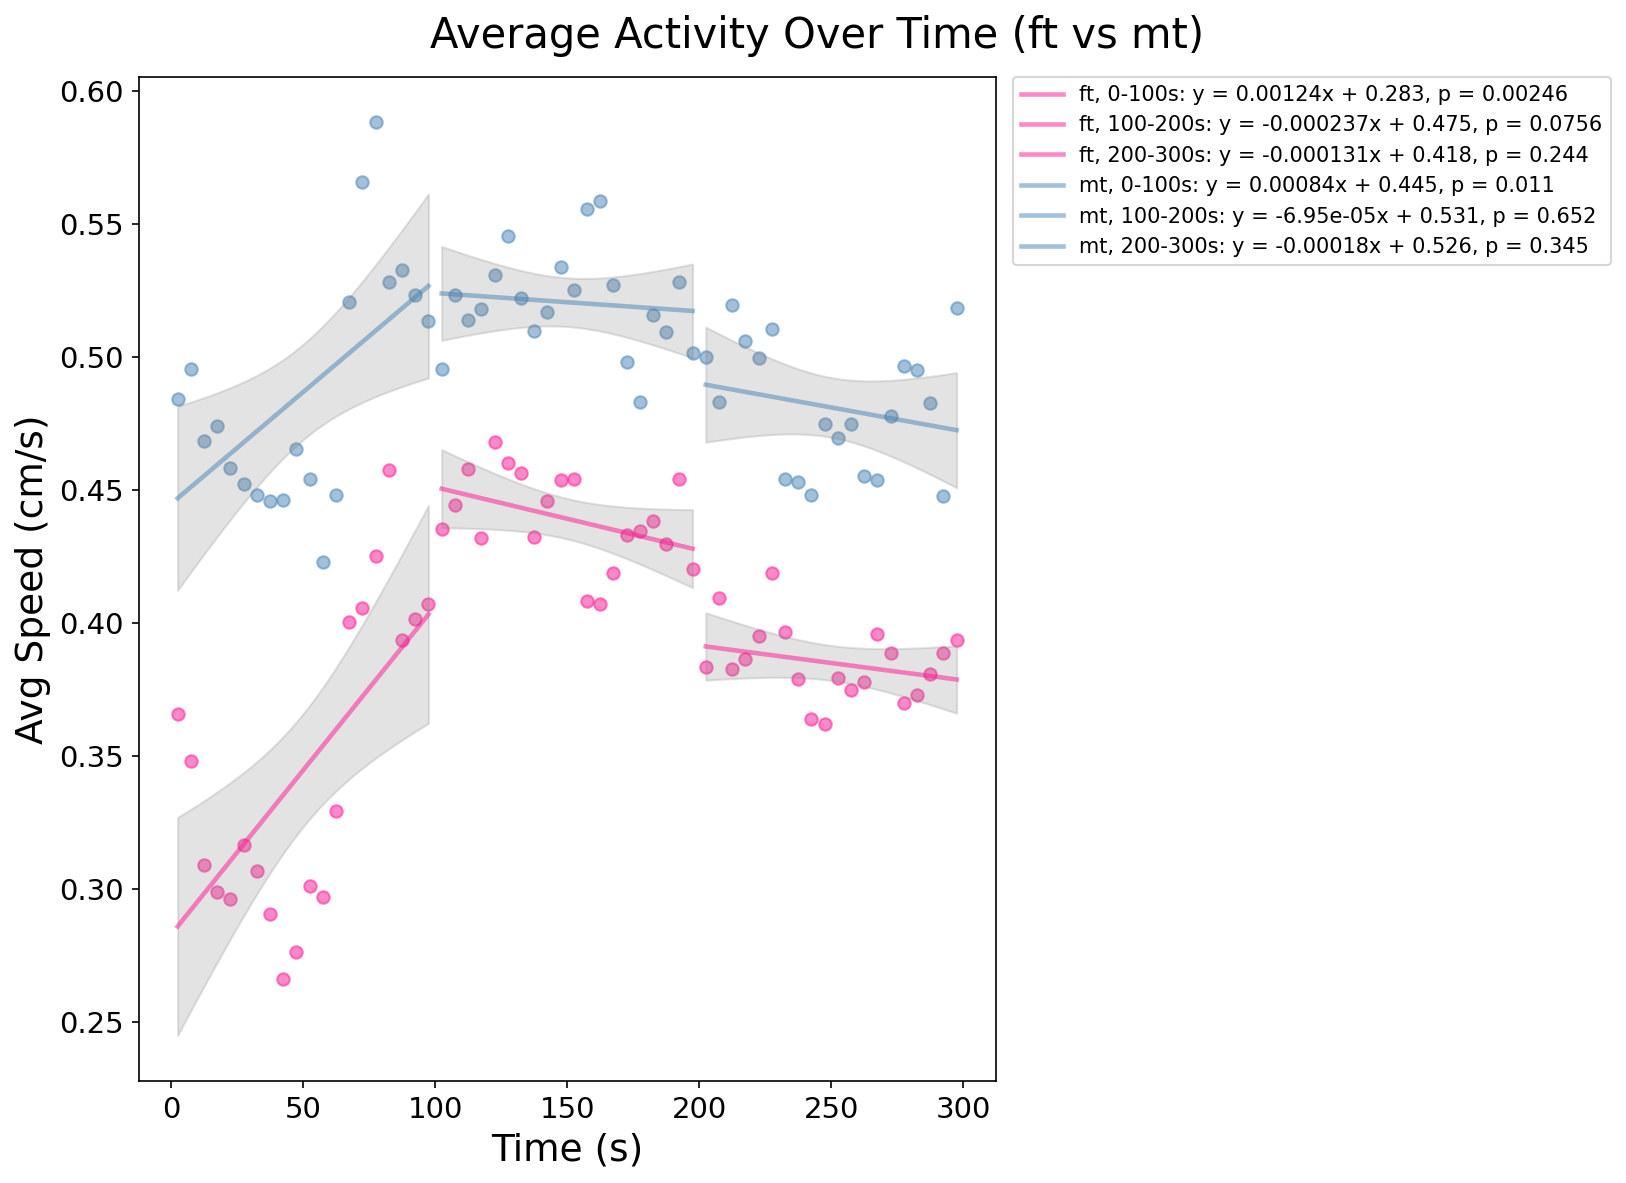
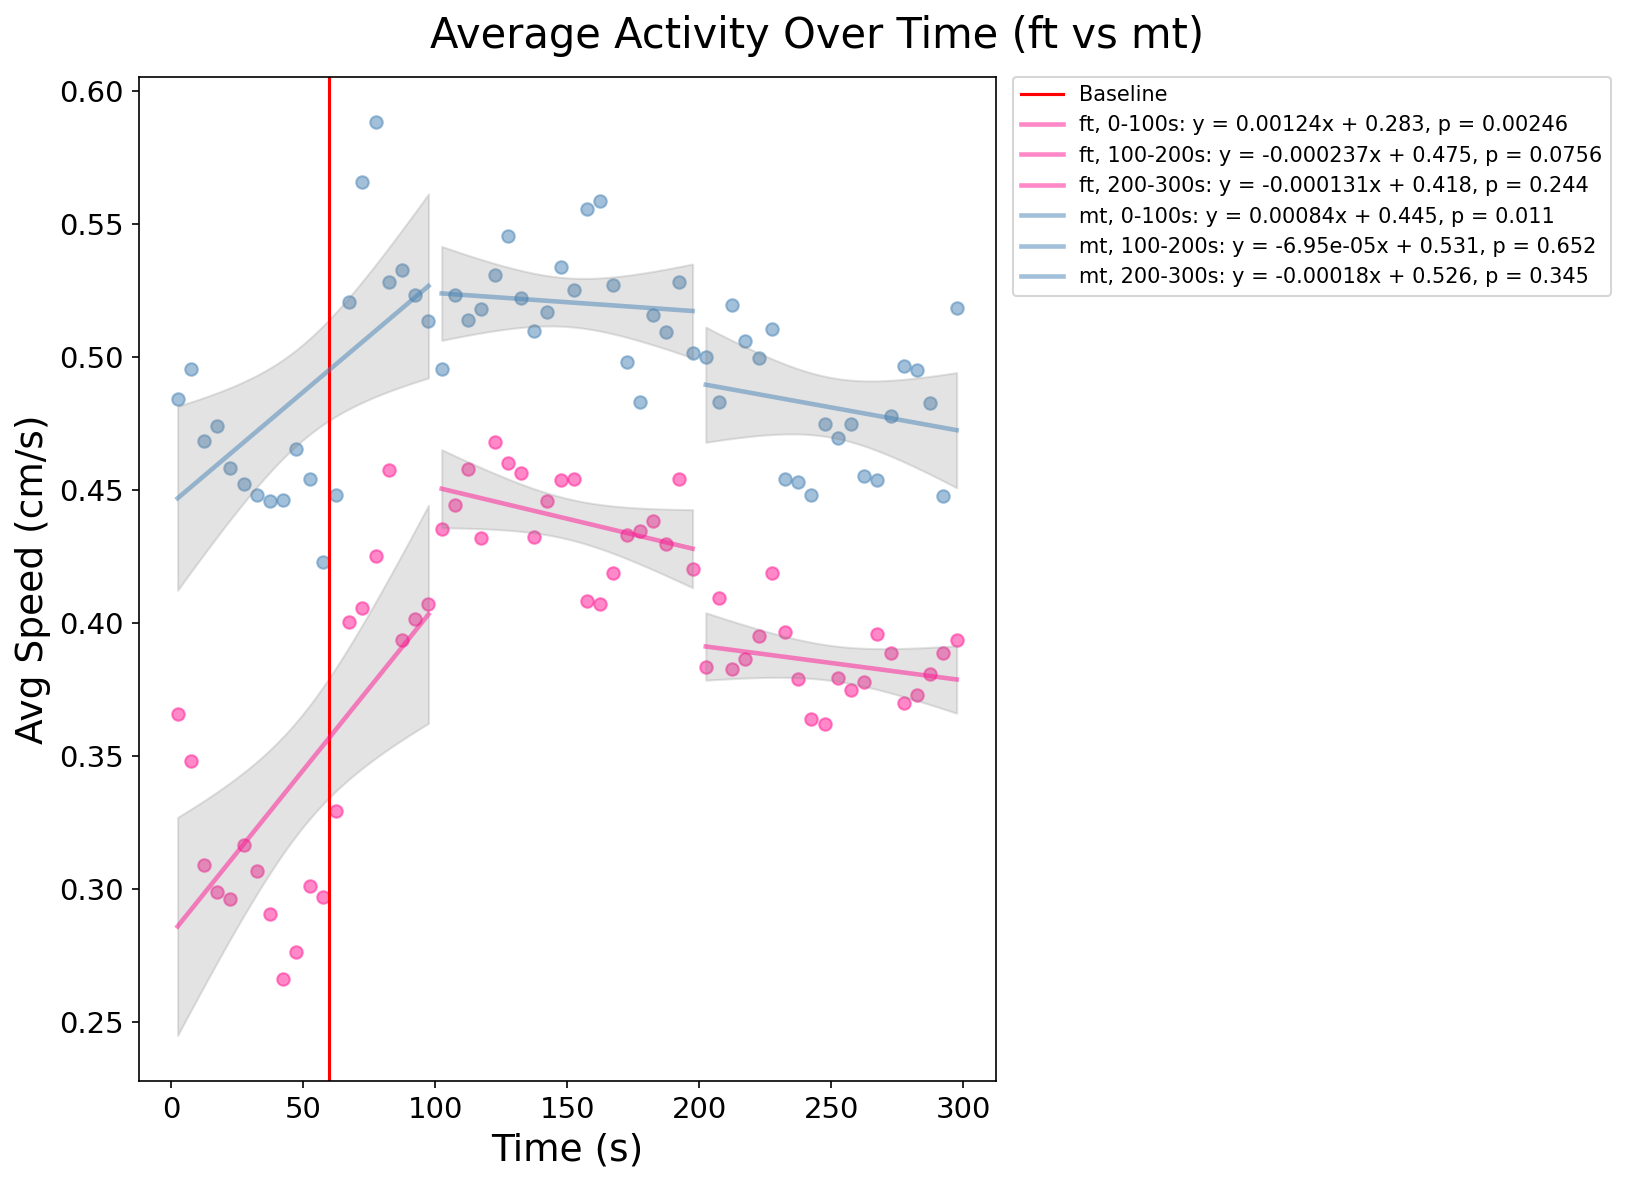
updated analysis plots for pupal height to compare t v m v b

Changed region(s): [[0.615, 0.0609, 0.984, 0.2434]]

diff --git a/PupalHeight_Detection/pupal_height_analysis.py b/PupalHeight_Detection/pupal_height_analysis.py
@@ -1,9 +1,9 @@
 import os
-
 import matplotlib.pyplot as plt
 import numpy as np
 import pandas as pd
 from scipy.stats import ttest_ind, linregress, t
+from itertools import combinations
 
 EVAL_SUMMARY = "/Volumes/Crucial X9/Cameras-Calit2IRT/PupalHeight_Detection/TestingEval/eval_summary.csv"
 ALGORITHM = None # set to a value from eval_summary's `algorithm` column to filter; None = use all rows
@@ -20,7 +20,17 @@ DURATION_SEC = 300
 BIN_SIZE = 5
 
 PAIRS = [("f", "m"), ("fb", "mb"), ("fm", "mm"), ("ft", "mt")]
+
+# speed_fit graphs for t, m, and b are put next to each other on a common scale,
+# with a line at the 60s mark on the x axis for baseline
+COMPARE_PAIRS = [("ft", "mt"), ("fm", "mm"), ("fb", "mb")]  # t, m, b
+
 COLOR_A, COLOR_B = "deeppink", "steelblue"
+
+# pooled treatment groups: every t video (ft + mt) vs every m video (fm + mm) vs every b video (fb + mb)
+TREATMENT_GROUPS = {"t": ("ft", "mt"), "m": ("fm", "mm"), "b": ("fb", "mb")}
+TREATMENT_COLORS = {"t": "darkgoldenrod", "m": "maroon", "b": "seagreen"}
+
 
 def parse_coord(s):
     try:
@@ -31,12 +41,13 @@ def parse_coord(s):
 
 
 def in_group(vid_name, prefix):
-    """True if the video name starts with the prefix, e.g. 'fb3.mov' is in 'f' and in 'fb'."""
+    """True if the video name starts with the prefix"""
     return vid_name.lower().startswith(prefix)
 
 
 def reg_ci(x, y, xgrid, alpha=0.05):
-    x, y = np.asarray(x, float), np.asarray(y, float)
+    x = np.asarray(x, float)
+    y = np.asarray(y, float)
     n = len(x)
     slope, intercept, r, p, se = linregress(x, y)
     s_err = np.sqrt(np.sum((y - (slope * x + intercept)) ** 2) / (n - 2))
@@ -48,15 +59,46 @@ def reg_ci(x, y, xgrid, alpha=0.05):
 
 def stars(p):
     if p < 0.001:
-        return "****"  
+        return "****"
     elif p < 0.01:
         return "***"
     elif p < 0.05:
         return "**"
     elif p < 0.10:
-       return "*" 
+        return "*"
     else:
         return "ns"
+
+
+def plot_speed_fit(ax, groups, vids, colors):
+    """Scatter of binned avg speed + piecewise linear fits (0-100, 100-200, 200-300 s) with CI."""
+    for g in groups:
+        c = colors[g]
+        mat = np.array([vid_bin_means[v] for v in vids[g]])
+        means = np.nanmean(mat, axis=0)
+        valid = ~np.isnan(means)
+        x_v = bin_centers[valid]
+        y_v = means[valid]
+        ax.scatter(x_v, y_v, color=c, alpha=0.5)
+
+        for k, (lo, hi) in enumerate([(0, 100), (100, 200), (200, DURATION_SEC)]):
+            m = (x_v >= lo) & (x_v <= hi)
+            if m.sum() < 3:
+                continue
+            xs = x_v[m]
+            ys = y_v[m]
+            xgrid = np.linspace(xs.min(), xs.max(), 200)
+            yfit, ci_lo, ci_hi, p_fit, slope, intercept = reg_ci(xs, ys, xgrid)
+
+            if float(intercept) >= 0:
+                sign = "+"
+            else:
+                sign = "\u2212"
+
+            eq = f"y = {slope}x {sign} {abs(float(intercept)):.3g}"
+            ax.plot(xgrid, yfit, color=c, lw=2.2, alpha=0.5,
+                    label=f"{g}, {lo}-{hi}s: {eq}, p = {p_fit}")
+            ax.fill_between(xgrid, ci_lo, ci_hi, color="gray", alpha=0.22)
 
 
 # pick videos from eval_summary
@@ -66,33 +108,59 @@ if ALGORITHM is not None:
     eval_df = eval_df[eval_df["algorithm"] == ALGORITHM]
 
 # skip any video where IDs are switched in under 40 seconds
-bad = eval_df[eval_df["avg_id_length_sec"] < MIN_ID_LENGTH_SEC]["video"].unique()
+too_short = eval_df["avg_id_length_sec"] < MIN_ID_LENGTH_SEC
+bad = eval_df[too_short]["video"].unique()
 print(f"Skipping {len(bad)} video(s) with avg ID length < {MIN_ID_LENGTH_SEC}s: {list(bad)}")
 
-wanted_groups = {g for pair in PAIRS for g in pair}
+wanted_groups = set()
+for pair in PAIRS:
+    for g in pair:
+        wanted_groups.add(g)
+
 os.makedirs(OUT_DIR, exist_ok=True)
+
 test_names = []
 for v in eval_df["video"].unique():
     if v in bad:
         continue
-    name = v if v.endswith(".mov") else f"{v}.mov"
-    if any(in_group(name, g) for g in wanted_groups):
+
+    if v.endswith(".mov"):
+        name = v
+    else:
+        name = f"{v}.mov"
+
+    in_any_wanted_group = False
+    for g in wanted_groups:
+        if in_group(name, g):
+            in_any_wanted_group = True
+            break
+
+    if in_any_wanted_group:
         test_names.append(name)
 
-# per-video processing 
+# per-video processing
 totals_cm = {} # vid -> total distance of all flies (cm)
 speed_info_per_vid = {} # vid -> (seconds, avg speed per frame in cm/s)
 
 for vid_name in test_names:
     stem = vid_name.replace(".mov", "")
-    vid_key = vid_name if os.path.exists(TRACK_CSV.format(vid=vid_name)) else stem
+
+    if os.path.exists(TRACK_CSV.format(vid=vid_name)):
+        vid_key = vid_name
+    else:
+        vid_key = stem
+
     df = pd.read_csv(TRACK_CSV.format(vid=vid_key))
     df = df.iloc[4:].reset_index(drop=True)
 
     start_frame = df["frame"].iloc[0]
     df = df[df["frame"] < start_frame + FPS * DURATION_SEC].reset_index(drop=True)
 
-    id_cols = [c for c in df.columns if c.startswith("ID_")]
+    id_cols = []
+    for c in df.columns:
+        if c.startswith("ID_"):
+            id_cols.append(c)
+
     coords = {}
     for col in id_cols:
         xy = df[col].apply(parse_coord).tolist()
@@ -110,7 +178,11 @@ for vid_name in test_names:
 
     dist_matrix = pd.concat(frame_dists, axis=1).replace(0, np.nan)
     frame_avg_speed = (dist_matrix.sum(axis=1) / N_FLIES) * CM_PER_PX * FPS  # cm/s
-    seconds = [(f - df["frame"].iloc[0]) / FPS for f in df["frame"].values]
+
+    first_frame = df["frame"].iloc[0]
+    seconds = []
+    for f in df["frame"].values:
+        seconds.append((f - first_frame) / FPS)
     speed_info_per_vid[vid_name] = (np.array(seconds, float), frame_avg_speed.to_numpy(float))
 
     # trajectories
@@ -134,19 +206,37 @@ for name, (s_arr, sp_arr) in speed_info_per_vid.items():
     for lo, hi in zip(bin_edges[:-1], bin_edges[1:]):
         vals = sp_arr[(s_arr >= lo) & (s_arr < hi)]
         vals = vals[~np.isnan(vals)]
-        means.append(vals.mean() if len(vals) else np.nan)
+        if len(vals) > 0:
+            means.append(vals.mean())
+        else:
+            means.append(np.nan)
     vid_bin_means[name] = np.array(means)
 
 # per-pair comparisons
+pair_speed_data = {}  # (ga, gb) -> (vids, colors), kept for the side-by-side figure
 for ga, gb in PAIRS:
-    vids = {ga: [v for v in test_names if in_group(v, ga)],
-            gb: [v for v in test_names if in_group(v, gb)]}
+    vids_a = []
+    vids_b = []
+    for v in test_names:
+        if in_group(v, ga):
+            vids_a.append(v)
+        if in_group(v, gb):
+            vids_b.append(v)
+    vids = {ga: vids_a, gb: vids_b}
+
     if min(len(vids[ga]), len(vids[gb])) < 2:
         print(f"{ga} vs {gb}: need >=2 videos per group (have {len(vids[ga])}, {len(vids[gb])}), skipping")
         continue
 
     colors = {ga: COLOR_A, gb: COLOR_B}
-    totals = {g: [totals_cm[v] for v in vids[g]] for g in (ga, gb)}
+    pair_speed_data[(ga, gb)] = (vids, colors)
+
+    totals = {}
+    for g in (ga, gb):
+        totals[g] = []
+        for v in vids[g]:
+            totals[g].append(totals_cm[v])
+
     _, p = ttest_ind(totals[ga], totals[gb], equal_var=False)
     print(f"{ga} vs {gb}: p = {p:.4g}")
 
@@ -167,6 +257,7 @@ for ga, gb in PAIRS:
     ax.set_ylabel("Total Distance (cm)")
     ax.set_title(f"{ga} vs {gb}: Total Distance")
     ax.set_xlabel(f"p = {p:.3g}")
+    ax.set_ylim(1700, 4500)
     fig.tight_layout()
     fig.savefig(f"{OUT_DIR}/{ga}_vs_{gb}_boxplot.png", dpi=150)
     plt.close(fig)
@@ -174,26 +265,8 @@ for ga, gb in PAIRS:
     # avg speed over time with linear fits (0-100, 100-200, 200-300 s) + CI
     fig, ax = plt.subplots(figsize=(11, 8))
     fig.suptitle(f"Average Activity Over Time ({ga} vs {gb})", fontsize=20)
-    for g in (ga, gb):
-        c = colors[g]
-        mat = np.array([vid_bin_means[v] for v in vids[g]])
-        means = np.nanmean(mat, axis=0)
-        valid = ~np.isnan(means)
-        x_v, y_v = bin_centers[valid], means[valid]
-        ax.scatter(x_v, y_v, color=c, alpha=0.5)
-
-        for k, (lo, hi) in enumerate([(0, 100), (100, 200), (200, DURATION_SEC)]):
-            m = (x_v >= lo) & (x_v <= hi)
-            if m.sum() < 3:
-                continue
-            xs, ys = x_v[m], y_v[m]
-            xgrid = np.linspace(xs.min(), xs.max(), 200)
-            yfit, ci_lo, ci_hi, p_fit, slope, intercept = reg_ci(xs, ys, xgrid)
-            sign = "+" if float(intercept) >= 0 else "\u2212"
-            eq = f"y = {slope}x {sign} {abs(float(intercept)):.3g}"
-            ax.plot(xgrid, yfit, color=c, lw=2.2, alpha=0.5,
-                    label=f"{g}, {lo}-{hi}s: {eq}, p = {p_fit}")
-            ax.fill_between(xgrid, ci_lo, ci_hi, color="gray", alpha=0.22)
+    ax.axvline(60, c='r', label='Baseline')
+    plot_speed_fit(ax, (ga, gb), vids, colors)
 
     ax.legend(fontsize=10, loc="upper left", bbox_to_anchor=(1.02, 1), borderaxespad=0)
     ax.set_xlabel("Time (s)", fontsize=18)
@@ -201,4 +274,122 @@ for ga, gb in PAIRS:
     ax.tick_params(axis="both", labelsize=14)
     fig.tight_layout()
     fig.savefig(f"{OUT_DIR}/{ga}_vs_{gb}_speed_fit.png", dpi=150, bbox_inches="tight")
+    plt.close(fig)
+
+# side-by-side speed_fit for t, m, b on a common x/y scale, with a line at 60 s
+available = []
+missing = []
+for pr in COMPARE_PAIRS:
+    if pr in pair_speed_data:
+        available.append(pr)
+    else:
+        missing.append(pr)
+
+if len(missing) > 0:
+    print(f"Side-by-side speed_fit: missing pairs {missing}")
+
+if len(available) > 0:
+    fig, axes = plt.subplots(1, len(available), figsize=(8 * len(available), 8),
+                             sharex=True, sharey=True, squeeze=False)
+    axes = axes[0]
+    fig.suptitle("Average Activity Over Time (t, m, b)", fontsize=20)
+    for ax, (ga, gb) in zip(axes, available):
+        vids, colors = pair_speed_data[(ga, gb)]
+        plot_speed_fit(ax, (ga, gb), vids, colors)
+        ax.axvline(60, c='r', ls='--', lw=1.5)
+        ax.set_title(f"{ga} vs {gb}", fontsize=16)
+        ax.set_xlabel("Time (s)", fontsize=16)
+        ax.tick_params(axis="both", labelsize=12)
+        ax.legend(fontsize=8, loc="upper center", bbox_to_anchor=(0.5, -0.12))
+    axes[0].set_ylabel("Avg Speed (cm/s)", fontsize=16)
+    fig.tight_layout()
+    fig.savefig(f"{OUT_DIR}/t_m_b_speed_fit_comparison.png", dpi=150, bbox_inches="tight")
+    plt.close(fig)
+
+
+# pooled comparison: all t vs all m vs all b (males and females combined)
+tm_vids = {}
+for g, prefixes in TREATMENT_GROUPS.items():
+    tm_vids[g] = []
+    for v in test_names:
+        matches_group = False
+        for pre in prefixes:
+            if in_group(v, pre):
+                matches_group = True
+                break
+        if matches_group:
+            tm_vids[g].append(v)
+
+smallest_group = None
+for g, vs in tm_vids.items():
+    print(f"pooled {g}: {len(vs)} videos")
+    if smallest_group is None or len(vs) < smallest_group:
+        smallest_group = len(vs)
+
+if smallest_group < 2:
+    print("pooled t/m/b comparison: need >=2 videos per group, skipping")
+else:
+    names = list(TREATMENT_GROUPS)
+
+    tm_totals = {}
+    for g in names:
+        tm_totals[g] = []
+        for v in tm_vids[g]:
+            tm_totals[g].append(totals_cm[v])
+
+    # boxplot of total distance with pairwise Welch t-tests
+    box_data = []
+    for g in names:
+        box_data.append(tm_totals[g])
+
+    fig, ax = plt.subplots(figsize=(5, 5))
+    bp = ax.boxplot(box_data, patch_artist=True, widths=0.5)
+    for patch, g in zip(bp["boxes"], names):
+        patch.set_facecolor(TREATMENT_COLORS[g])
+        patch.set_alpha(0.7)
+    for element in ["whiskers", "caps", "medians", "fliers"]:
+        for item in bp[element]:
+            item.set_color("black")
+    ax.set_xticks(range(1, len(names) + 1))
+    ax.set_xticklabels(names)
+
+    top = 0
+    for g in names:
+        group_max = max(tm_totals[g])
+        if group_max > top:
+            top = group_max
+
+    step = top * 0.06
+    y = top * 1.04
+    p_labels = []
+    for a, b in combinations(range(len(names)), 2):
+        _, p = ttest_ind(tm_totals[names[a]], tm_totals[names[b]], equal_var=False)
+        print(f"pooled {names[a]} vs {names[b]}: p = {p:.4g}")
+        p_labels.append(f"{names[a]} v {names[b]}: {p:.3g}")
+        ax.plot([a + 1, a + 1, b + 1, b + 1], [y, y + step * 0.2, y + step * 0.2, y], color="black", lw=1)
+        ax.text((a + b) / 2 + 1, y + step * 0.25, stars(p), ha="center", va="bottom", fontsize=10)
+        y += step
+    ax.set_ylim(top=y + step)
+    ax.set_ylabel("Total Distance (cm)")
+    ax.set_title("t vs m vs b: Total Distance")
+    ax.set_xlabel("p: " + ", ".join(p_labels), fontsize=8)
+    fig.tight_layout()
+    fig.savefig(f"{OUT_DIR}/t_vs_m_vs_b_boxplot.png", dpi=150)
+    plt.close(fig)
+
+    # avg speed over time, one panel per pooled group, same x/y scale (60 s baseline marked)
+    fig, axes = plt.subplots(1, len(names), figsize=(8 * len(names), 8),
+                             sharex=True, sharey=True, squeeze=False)
+    axes = axes[0]
+    fig.suptitle("Average Activity Over Time (t vs m vs b)", fontsize=20)
+    for ax, g in zip(axes, names):
+        ax.axvline(60, c='r', ls='--', lw=1.5)
+        plot_speed_fit(ax, (g,), tm_vids, TREATMENT_COLORS)
+        ax.set_title(f"{g} (n = {len(tm_vids[g])} videos)", fontsize=16)
+        ax.set_xlabel("Time (s)", fontsize=16)
+        ax.tick_params(axis="both", labelsize=12)
+        ax.legend(fontsize=9, loc="upper center", bbox_to_anchor=(0.5, -0.12))
+    axes[0].set_ylabel("Avg Speed (cm/s)", fontsize=16)
+    fig.tight_layout()
+    fig.savefig(f"{OUT_DIR}/t_vs_m_vs_b_speed_fit.png", dpi=150, bbox_inches="tight")
     plt.close(fig)
